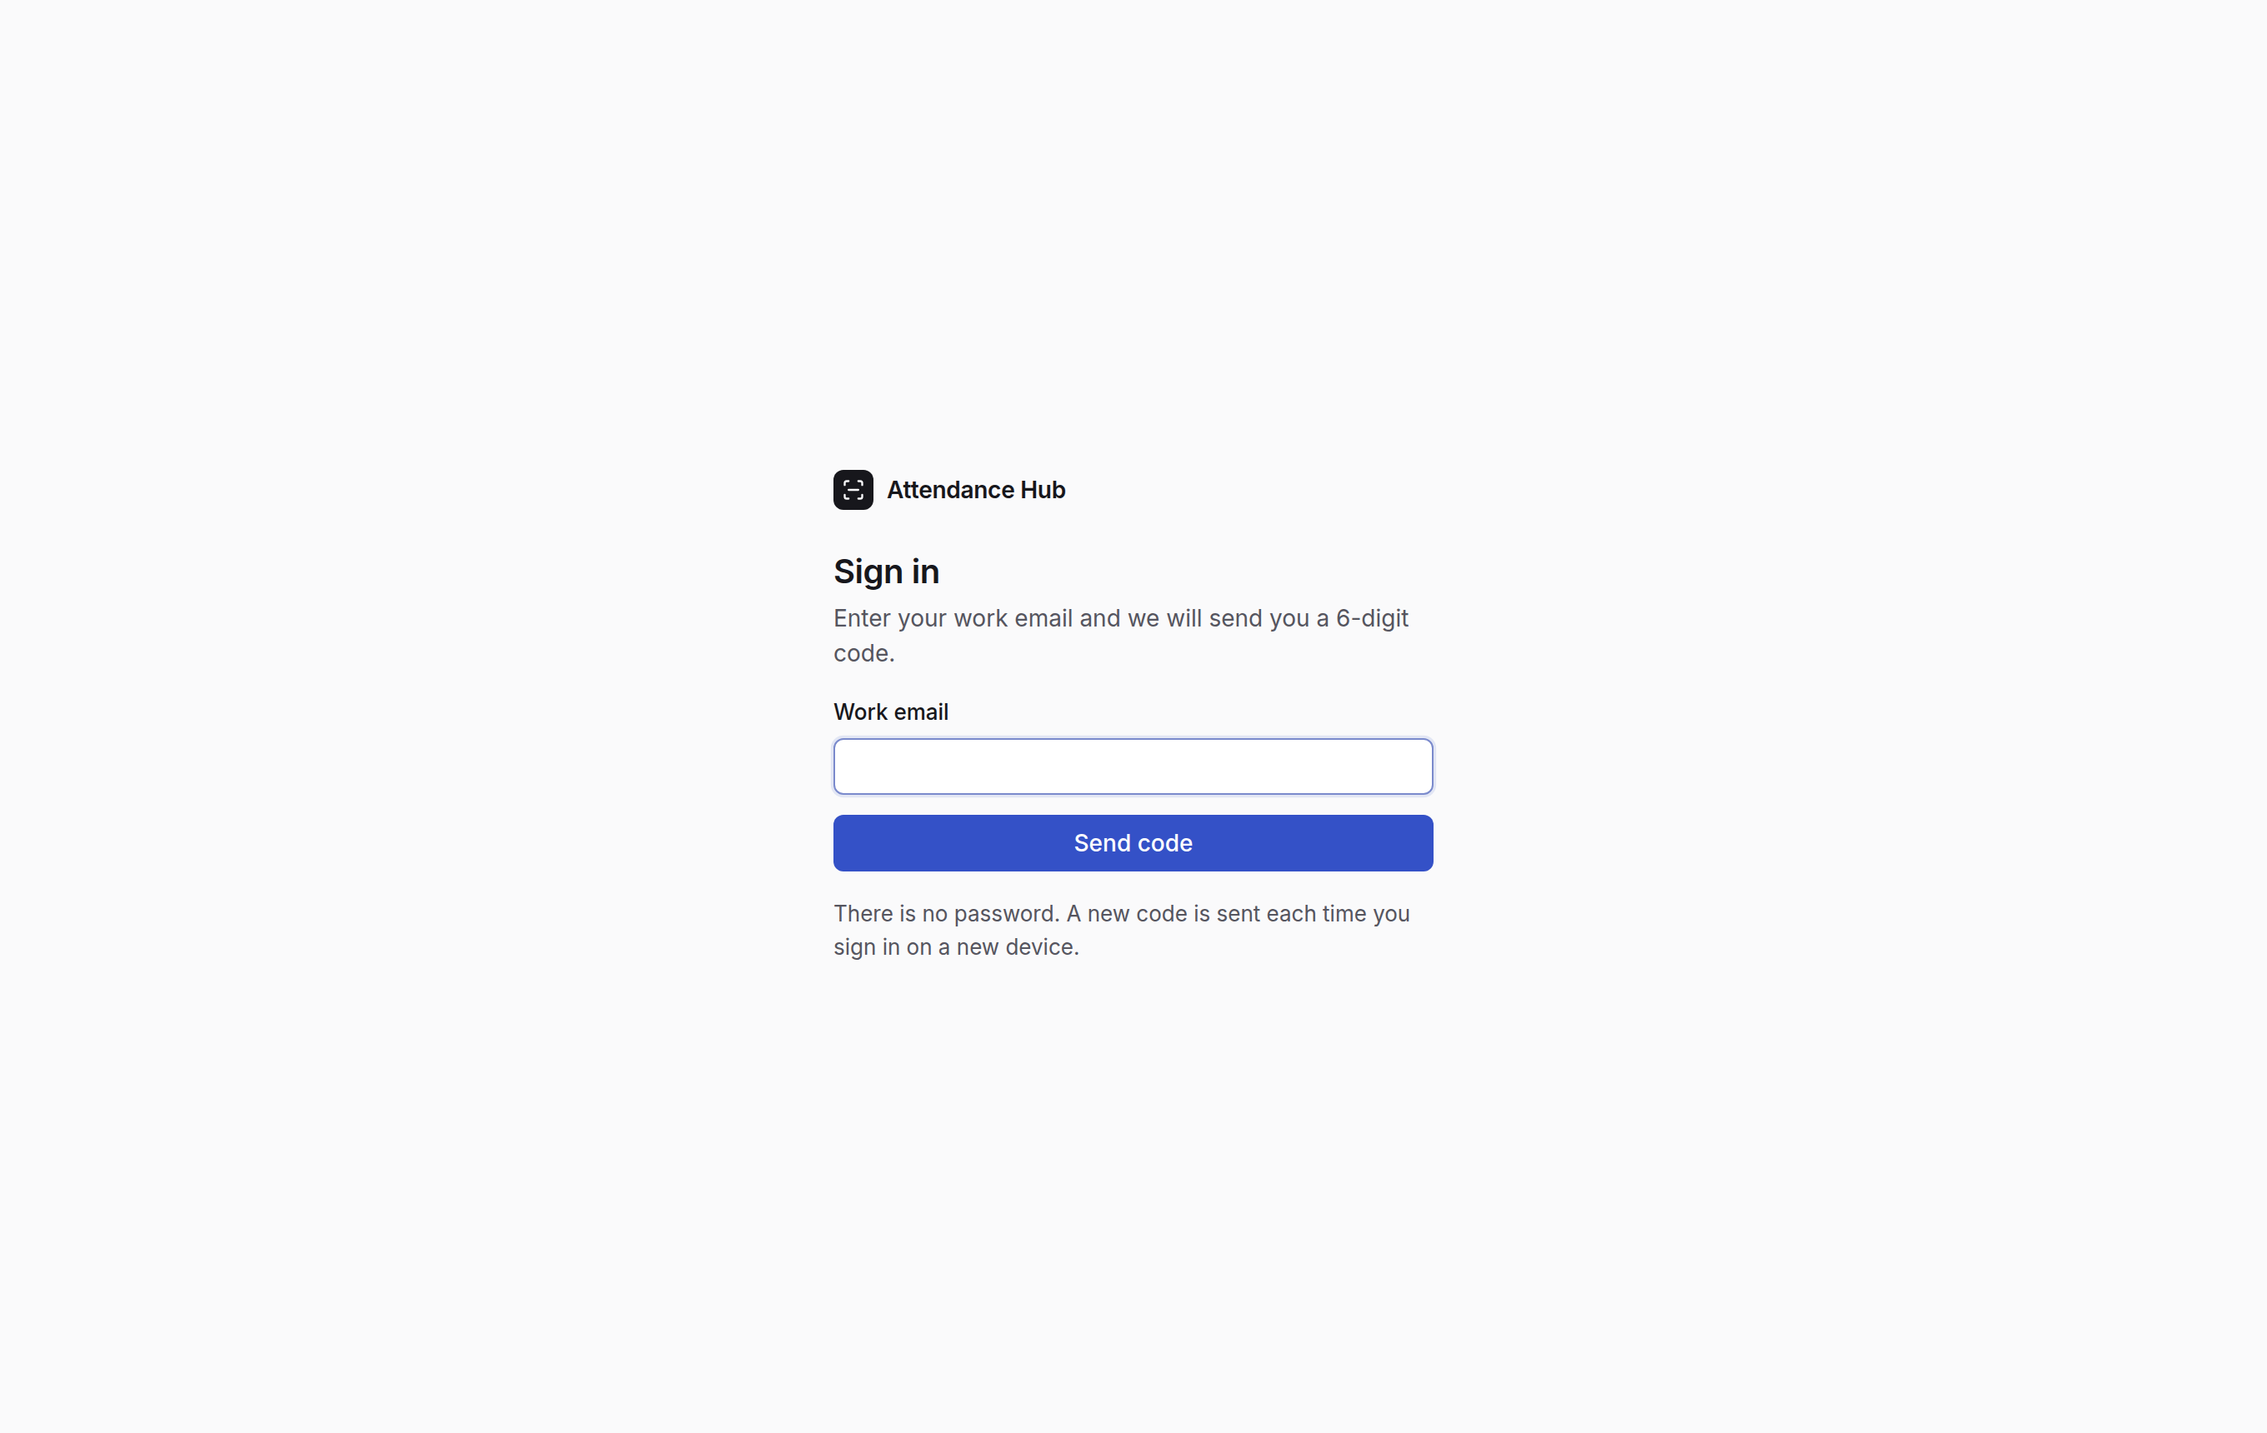
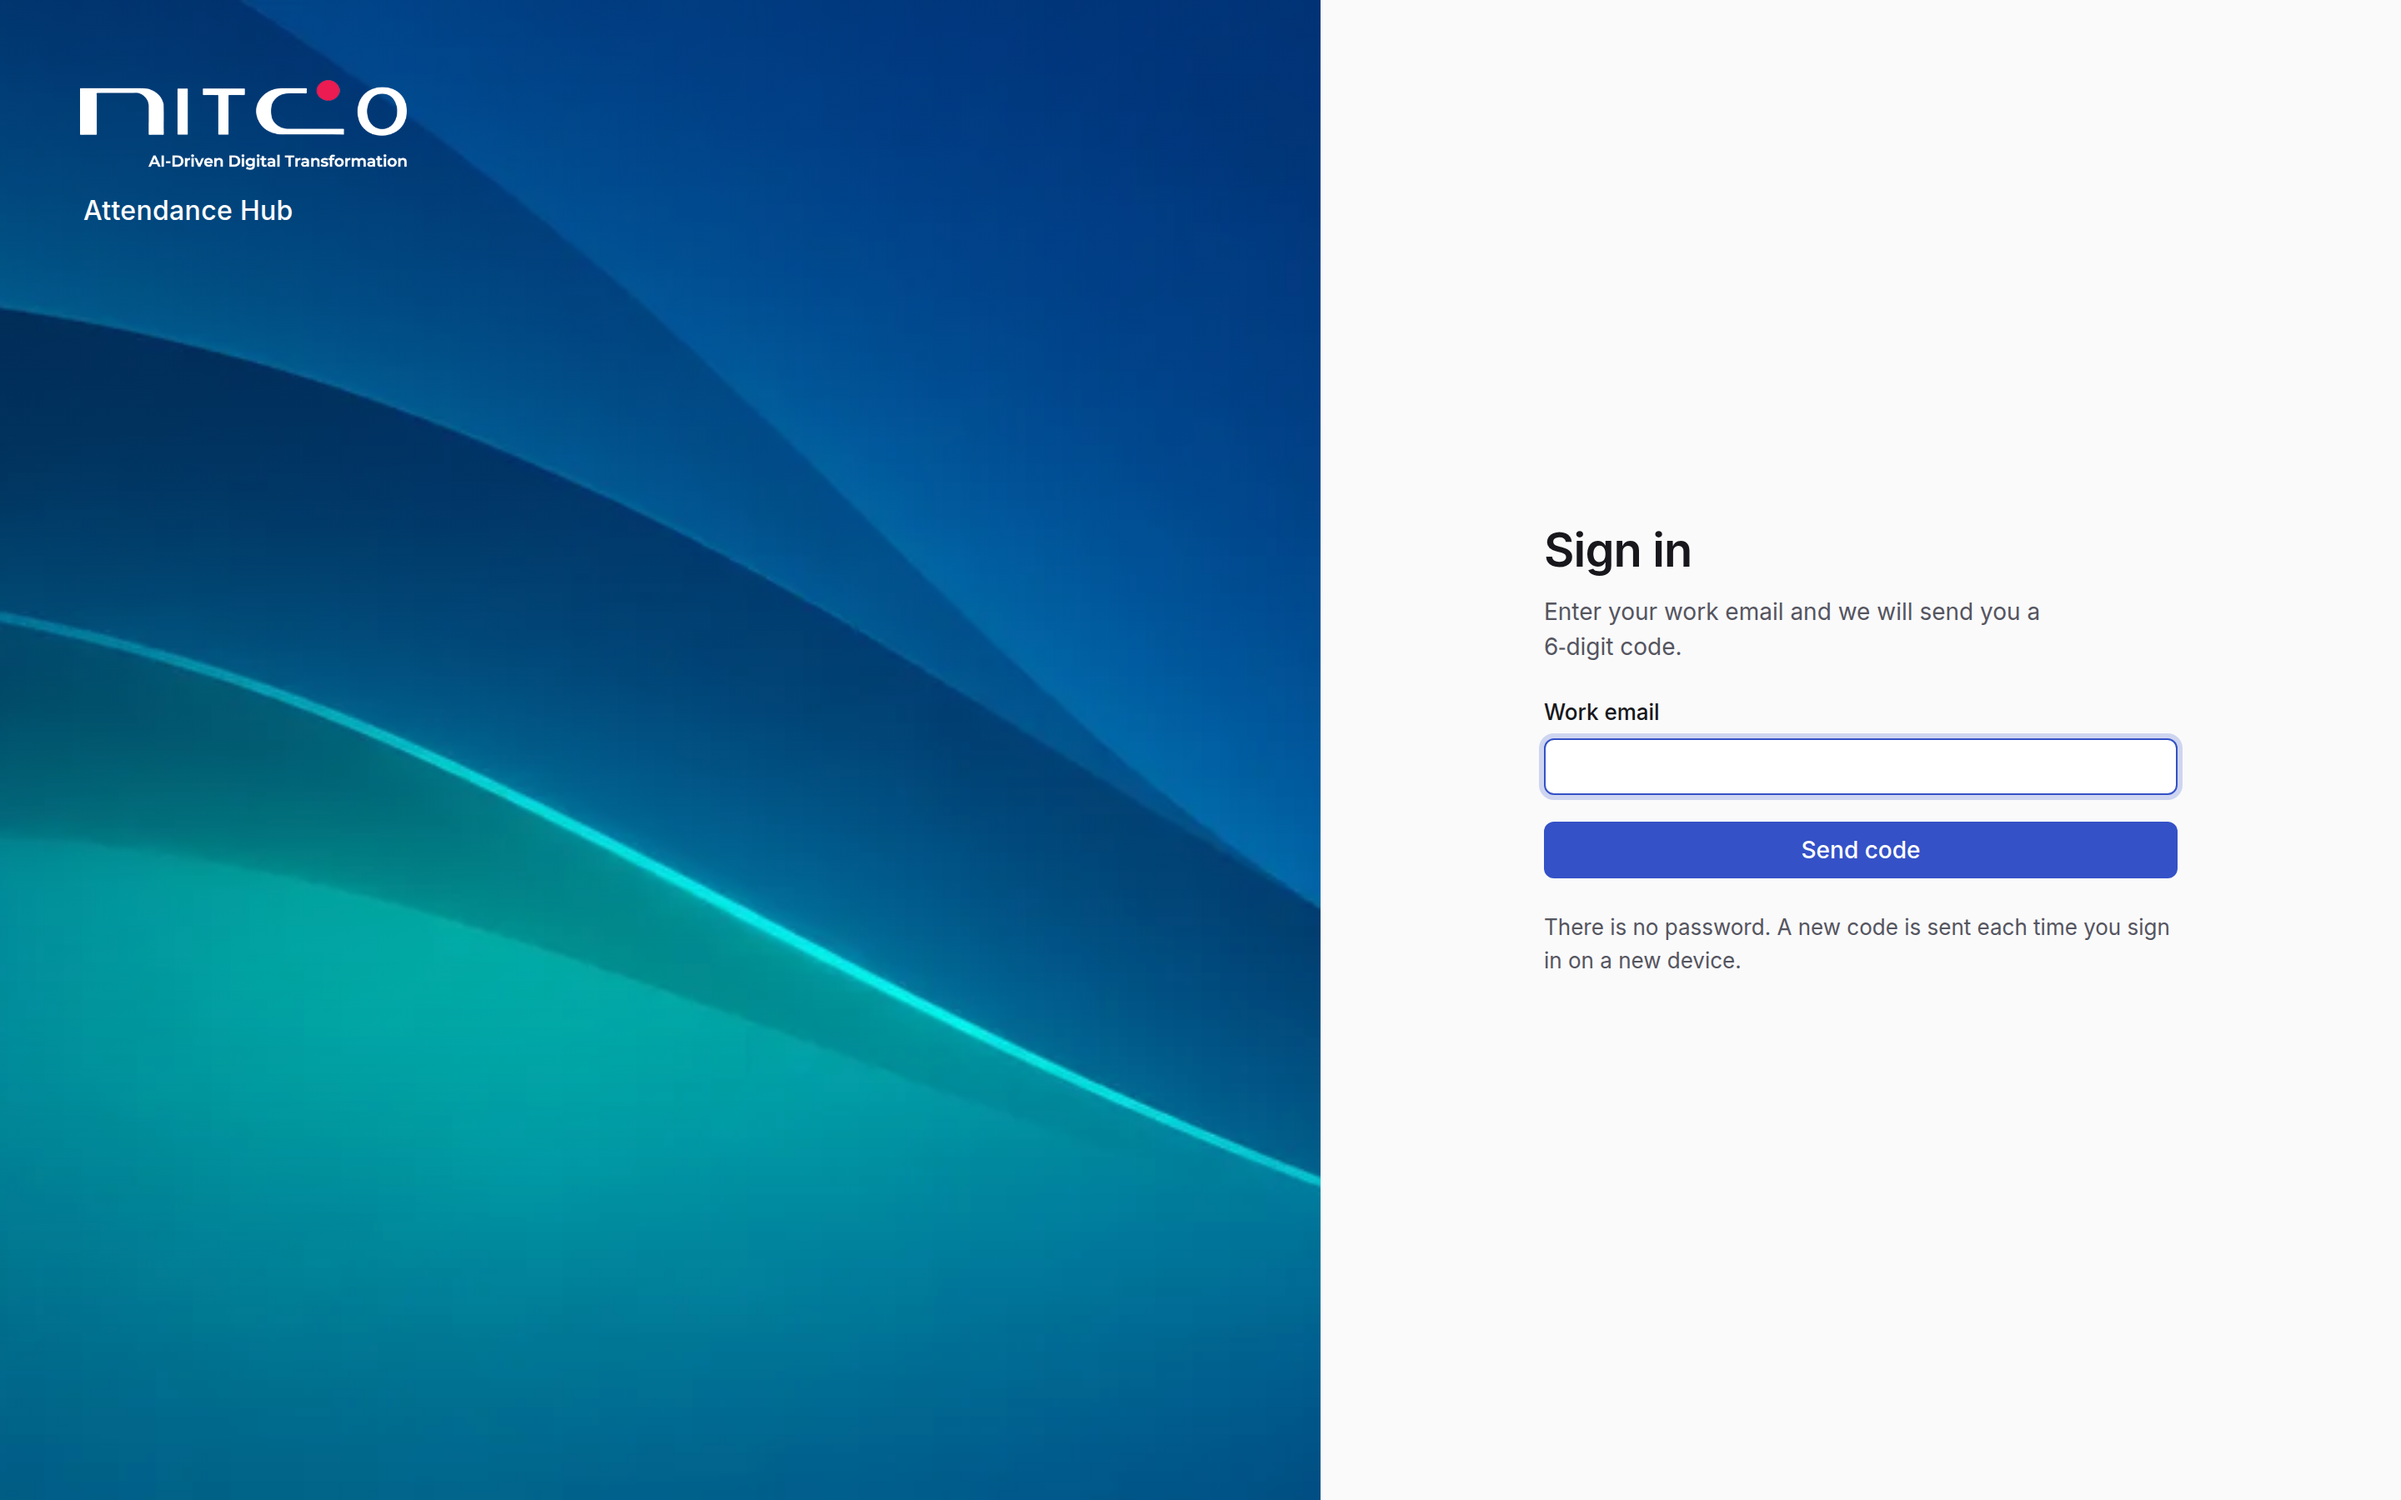
docs(design): brand surface exception, quick-view drawer, NITCO assets

diff --git a/DESIGN.md b/DESIGN.md
@@ -60,6 +60,7 @@ Markup helpers are Jinja macros in `templates/_ui.html`; icons are a Lucide spri
 - **Tables** (`ui.table`, `.hours-table`): one bordered container, sticky muted header, 1px row dividers, numeric columns `.num` right-aligned with tabular numerals. Under 768px rows stack into label/value pairs.
 - **Fields** (`ui.field`): label above input, hint below, `aria-invalid` plus `ui.inline_error` on failure. Errors say what went wrong and how to fix it.
 - **Empty state** (`ui.empty_state`): icon, one line on what is missing, one on what to do, optional action.
+- **Quick-view drawer** (`dialog#quick-view` in `base.html`, `static/quick-view.js`): a right-side sheet (full width under 768px) opened by plain clicks on a person's name on Everyone and People; modified clicks and no-JS fall through to the full page. Sticky header with name and Close, identity facts, today's `_day_live` region, footer actions pinned at the bottom. Neutral `--shadow-card`, slide-in of 150ms or less, none under reduced motion. Esc, Close and backdrop close it; focus returns to the name.
 - **Hours** (`ui.hours`): always `7h 42m`.
 
 ## Shell
@@ -68,7 +69,7 @@ Sidebar (232px) with brand, role-aware navigation and the signed-in person (init
 
 ## Rules (anti-slop)
 
-- No gradients, glows, glass, blur or colored shadows. (The one exception is the legend's hatch swatch, a repeating stripe that mirrors the chart's incomplete pattern.)
+- No gradients, glows, glass, blur or colored shadows. (Exceptions: the legend's hatch swatch, a repeating stripe that mirrors the chart's incomplete pattern; and the brand surface below.)
 - No cards inside cards. A section is a heading plus content, separated by space or a 1px rule.
 - No emoji, no unicode glyphs as icons. Icons are Lucide, 16px, 1.75 stroke.
 - No metric tiles unless a decision hangs on the number.
@@ -76,3 +77,7 @@ Sidebar (232px) with brand, role-aware navigation and the signed-in person (init
 - Plain copy in the product's own words. Incomplete days say "Incomplete", never a guessed number.
 - Motion is 150ms or less, for state feedback only, and is removed under `prefers-reduced-motion`.
 - Focus is always visible: 2px accent outline, 2px offset.
+
+## Brand surface
+
+The sign-in, code, setup and offline pages (`_auth_base.html`) carry the NITCO brand: a wave-art panel (`static/brand/wave.*`) with the white wordmark and "Attendance Hub", beside a form column that uses the normal tokens. Here only, the supplied gradient art, a fixed navy darkening overlay for text legibility, and the brand's own navy and red are allowed; they are brand values, not app tokens, and never appear inside the app shell. The favicon set lives in `static/brand/`.

diff --git a/PRODUCT.md b/PRODUCT.md
@@ -44,7 +44,7 @@ One Docker Compose stack on an office Linux host with routes to `192.168.1.201` 
 
 - Live network evidence on 2026-09-10: the X990 host answered ping and exposed HTTP on port 80, while TCP 4370 did not accept a connection; the C3-400 accepted TCP connections on port 4370 and, live-tested, correctly reported direction bytes matching the KTD4 alternation model.
 - Ten real employees' captured punches confirmed clean in/out alternation, including short breaks of 5-10 minutes — the evidence that effective-hours accounting is possible at all.
-- No brand assets were supplied. Sample data used anywhere in the UI is clearly labelled as sample.
+- NITCO brand assets (wordmark, N mark, wave art) were supplied and are used on the sign-in pages and as the favicon. Sample data used anywhere in the UI is clearly labelled as sample.
 
 ## Product Principles
 
